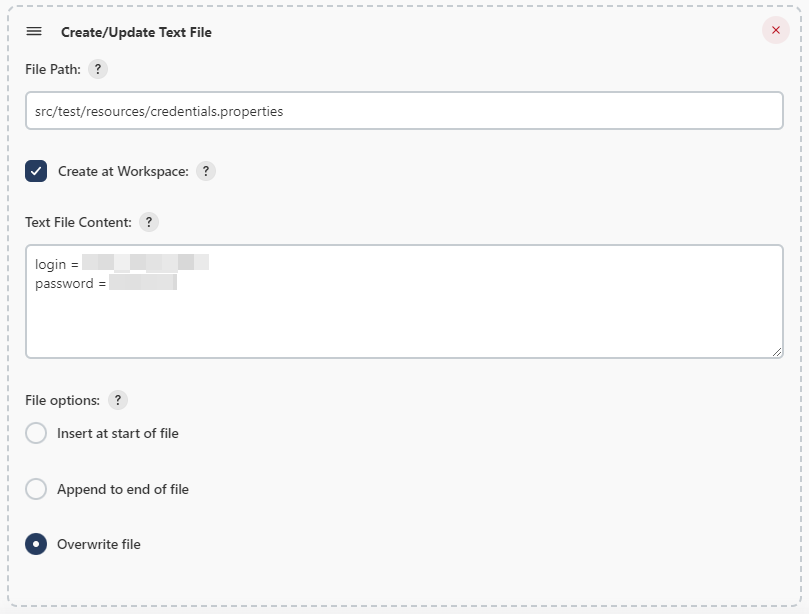
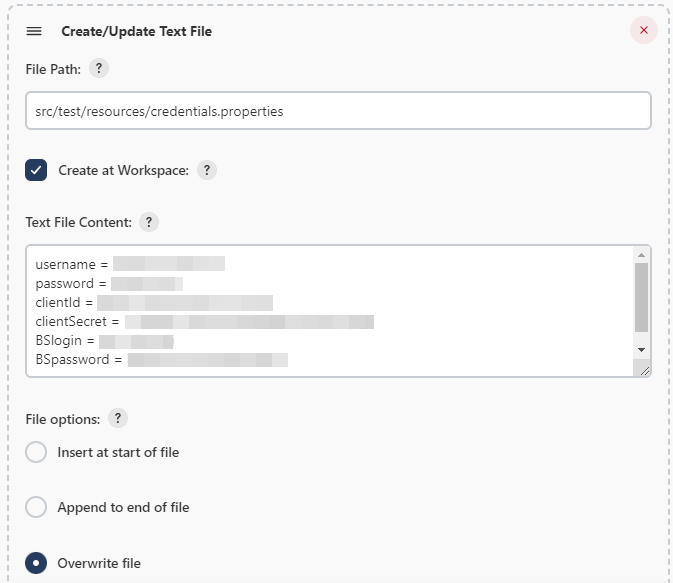
added ReadMe

diff --git a/src/test/java/tests/api/EditPostTests.java b/src/test/java/tests/api/EditPostTests.java
@@ -39,7 +39,7 @@ class EditPostTests extends TestDataApi{
         });
     }
     @Test
-    @DisplayName("Delete post with incorrect access token test")
+    @DisplayName("Edit post with incorrect access token test")
     void EditPostIncorrectTokenTest (){
         step("Get access token", () -> {
         accessToken = generalPage.getAccessToken(username, password, clientId, clientSecret);
@@ -56,7 +56,7 @@ class EditPostTests extends TestDataApi{
         });
     }
     @Test
-    @DisplayName("Delete post with incorrect access token")
+    @DisplayName("Edit post with no title test")
     void EditPostNoTitleIdTest (){
         String noTitleErorr = "NO_THING_ID";
         String thingId = "";

diff --git a/README.md b/README.md
@@ -22,22 +22,29 @@
 
 # <a name="Description">Description</a>
 
-The test project consists of Web, API and mobile(android) tests.\
+The test project consists of Web, mobile and API tests.\
 A brief list of interesting facts about the project:
 
 - [x] `Page Object` with steps using `Chain of Invocations`
 - [x] Fake data generating with `Faker` library
+- [x] Parametrized tests
 - [x] Parametrized build
 - [x] Different configuration files for test running depending on build parameters
 - [x] Config with `Owner` library
+- [x] Using `Lombok` for models for API tests
+- [x] Objects serialization/deserialization for API requests/responses using `Jackson`
+- [x] Using request/response specifications for API tests
+- [x] Custom Allure listener for beautiful API requests/responses logging
 - [x] `Allure TestOps` integration
+- [x] Autotests as test documentation
 
 # <a name="Technology">Tools and a technologies</a>
 
 <p  align="center">
+  <code><img width="5%" title="IntelliJ IDEA" src="./images/icons/IDEA-logo.svg"></code>
   <code><img width="5%" title="Java" src="./images/icons/java-logo.svg"></code>
-<code><img width="5%" title="IntelliJ IDEA" src="./images/icons/IDEA-logo.svg"></code>
   <code><img width="5%" title="Selenide" src="./images/icons/selenide-logo.svg"></code>
+  <code><img width="5%" title="REST-Assured" src="./images/icons/rest-assured-logo.svg"></code>
   <code><img width="5%" title="Selenoid" src="./images/icons/selenoid-logo.svg"></code>
   <code><img width="5%" title="Gradle" src="./images/icons/gradle-logo.svg"></code>
   <code><img width="5%" title="JUnit5" src="./images/icons/junit5-logo.svg"></code>
@@ -45,26 +52,30 @@ A brief list of interesting facts about the project:
   <code><img width="5%" title="Allure TestOps" src="./images/icons/allure-ee-logo.svg"></code>
   <code><img width="5%" title="Github" src="./images/icons/git-logo.svg"></code>
   <code><img width="5%" title="Jenkins" src="./images/icons/jenkins-logo.svg"></code>
+  <code><img width="5%" title="Jira" src="./images/icons/jira-logo.svg"></code>
   <code><img width="5%" title="Telegram" src="./images/icons/Telegram.svg"></code>
+  <code><img width="5%" title="Browserstack" src="./images/icons/browserstack.svg"></code>
+  <code><img width="5%" title="Android Studio" src="https://upload.wikimedia.org/wikipedia/commons/9/95/Android_Studio_Icon_3.6.svg"></code>
+  <code><img width="5%" title="Appium" src="./images/icons/appium.svg"></code>
 </p>
 
 The autotests in this project are written in `Java` using `Selenide` framework.\
 `Gradle` - is used as a build automation tool.  \
 `JUnit5` - to execute tests.\
+`REST Assured` - for easy API testing of REST services.\
 `Jenkins` - CI/CD for running tests remotely.\
 `Selenoid` - to remote launching browsers in `Docker` containers.\
+`Browserstack` - to run mobile tests.\
+`Android Studio tools`, `Appium` - to tun mobile tests locally in a mobile device emulator.\
 `Allure Report` - for test results visualisation.\
 `Telegram Bot` - for test results notifications.\
 `Allure TestOps` - as Test Management System.
 
 # <a name="Coverage">Coverage of tests</a>
 
-### <a name="Authorization(positive test)">Authorization(positive test)</a>
+### <a name="UI tests">UI tests</a>
 
 + successful authorization
-
-### <a name="Authorization(negative tests)">Authorization(negative tests)</a>
-
 + authorization with wrong login
 + authorization with wrong password
 + authorization with wrong login and password
@@ -73,6 +84,29 @@ The autotests in this project are written in `Java` using `Selenide` framework.\
 + authorization with empty login field
 + authorization with empty password field
 
+### <a name="Mobile tests">Mobile tests</a>
++ filter search result by: most relevant and all time test
++ filter search result by: most relevant and past year test
++ filter search result by: top and past month test
++ filter search result by: top and past week test
++ filter search result by: comment count and past 24 hours test
++ filter search result by: comment count and past hour test
++ change default view setting test
++ change autoplay setting test
++ change thumbnails setting test
+
+### <a name="API tests">API tests</a>
++ create post successful test
++ create post with incorrect access token test
++ create post with incorrect username
++ create post with no text test
++ create post with no type test
++ edit post successful test
++ edit post with incorrect access token test
++ edit post with no title test
++ delete post successful test
++ delete post with incorrect access token test
+
 # <a name="HowToRun">How to run</a>
 
 ## <a name="GradleCommand">Gradle command</a>
@@ -80,39 +114,41 @@ The autotests in this project are written in `Java` using `Selenide` framework.\
 To run locally use command:
 
 ```bash
-gradle clean test -Denv=local
+gradle clean {tag} -Denv={env}
 ```
+`tag` - tests with this tag will be executed:
+>- *API*
+>- *Web*
+>- *Mobile*
 
-To run Jenkins use command:
+`env` - defines an environment for running these tests:
+>- *\<not defined\>(for API tests)*
+>- *web_local*
+>- *web_remote*
+>- *android_local*
+>- *android_emulator*
+>- *android_browserstack*
 
-```bash
-gradle clean test -Denv=remote
-```
-
-To rut on your own environment:
-
-+ create property file with necessary parameters and put it in test.resources
-+ run test with command:
-
-```bash
-gradle clean test -Denv={file name}
-```
 
 ## <a name="Localrun">Local run</a>
 
-Credentials (login/password) from Reddit account haven't upload at GitHub to save sensitive data you need to create
+Credentials (login/password from Reddit, login/password from Browserstack) from Reddit account haven't upload at GitHub to save sensitive data. You need to create
 property file manually and put file to `src/test/resources` with name `credentials.properties`.
 Example of credentials.properties file:
 
 ```properties
 login=some_login
 password=somePassword
+clientId=someClientId (need for oauth2 authentication)
+clientSecret=someclienId (need for oauth2 authentication)
+BSlogin=some_login
+BSpassword=somePassword
 ```
 
 ## <a name="PropertyFiles">Property files</a>
 
 Possible properties in a `${env}.properties` file:
-
+#### <a name="UI property">UI property</a>
 ```properties
 remoteUrl=
 browserSize=
@@ -129,29 +165,31 @@ isRemote=
 >- *baseUrl* - base URL for Web tests
 >- *isRemote* - flag for local/remote running
 
-### <a name="PropertyFilesDefaults">Default property files</a>
-
-    local.properties
-
+#### <a name="Mobile property">Mobile property</a>
 ```properties
-remoteUrl=https://user1:1234@selenoid.autotests.cloud/
-browserSize=1920x1080
-browser=chrome
-browserVersion=100.0
-baseUrl=https://www.reddit.com/
-isRemote=false
+remoteBSUrl= 
+appUrl=
+deviceName=
+osVersion=
+environment=
 ```
+
+> - *remoteBSUrl* - URL for remote BrowserStack
+>- *appUrl* - URL for remote application on BrowserStack
+>- *deviceName* - name of device
+>- *osVersion* - version of operating system
+>- *environment* - browserStack or local
 
 ## <a name="RunInJenkins">Run in [Jenkins](https://jenkins.autotests.cloud/job/reddit_tests//)</a>
 
-Click on "Build with Parameters" button, after that click on "Build":
+Click on "Build with Parameters" button, choose parameters, after that click on "Build":
 <p  align="center">
 <img src="images/screen/gif_reddit.gif" alt="JenkinsBuildMainPage" width="800">
 </p>
 
-File with credentials from Reddit account has already attached.
+File with credentials from Reddit and BrowserStack accounts has already attached.
 <p  align="center">
-<img src="images/screen/2023-01-10_17-23-21.png" alt="JenkinsBuildMainPage" width="800">
+<img src="images/screen/2023-01-10_17-23-21.png" alt="JenkinsBuildMainPage" width="600">
 </p>
 
 # <a name="TelegramNotifications">Telegram Notifications</a>
@@ -191,6 +229,42 @@ Each test has artefacts:
 <p align="left">
   <img src="images/screen/video.gif" alt="AllureReportSuites2" width="900">
 </p>
+
+
+# <a name="AllureTestOps">[Allure TestOps](https://allure.autotests.cloud/project/1886/dashboards) integration</a>
+> The link can be accessed only by authorized users.
+## <a name="AllureTestOpsProject">Project in Allure TestOps</a>
+Test-cases in the project are imported and constantly updated from the code,
+so there is no need in complex process of synchronization manual test-cases and autotests.\
+It is enough to create and update an autotest in the code and the test-case in TMS always will be in actual state.\
+Manual test-cases also can be added in TMS in case of need(via web interface or via code).
+<p align="center">
+  <img src="images/screen/AllureTestOpsSelectionOfTests.gif" alt="AllureTestOpsTests" width="1050">
+</p>
+
+## <a name="AllureTestOpsStartTests">Ability to start a run of custom set of tests from Allure TestOps</a>
+
+Any person not related to autotest creation can select a set of tests, environment parameter(RunIn) and start a run.\
+Allure TestOps run will be created, Jenkins job triggered with correct parameters. And results of the job will be seamlessly integrated into Allure TestOps.
+<p align="center">
+  <img src="images/screen/AllureTestOpsFinishedRunClickStop1.gif" alt="AllureTestOpsSelectionOfTests" width="1050">
+</p>
+
+As soon as the Jenkins job is done, corresponding tests get their statuses. A tester can finish manual tests(if any) and click "Close launch".
+
+<p align="center">
+  <img src="images/screen/AllureTestOpsFinished.png" alt="AllureTestOpsFinishedRunClickStop" width="1250">
+</p>
+
+> After that all these test-cases(names, steps, tags etc.) will be updated according to the recent code changes.
+
+
+## <a name="Dashboards">Dashboards</a>
+Automation trends charts, distribution tests by some different parameters etc.:
+<p align="center">
+  <img src="images/screen/AllureTestOpsDashboardsOverview.png" alt="AllureTestOpsDashboardsOverview" width="1050">
+</p>
+
 
 
 
